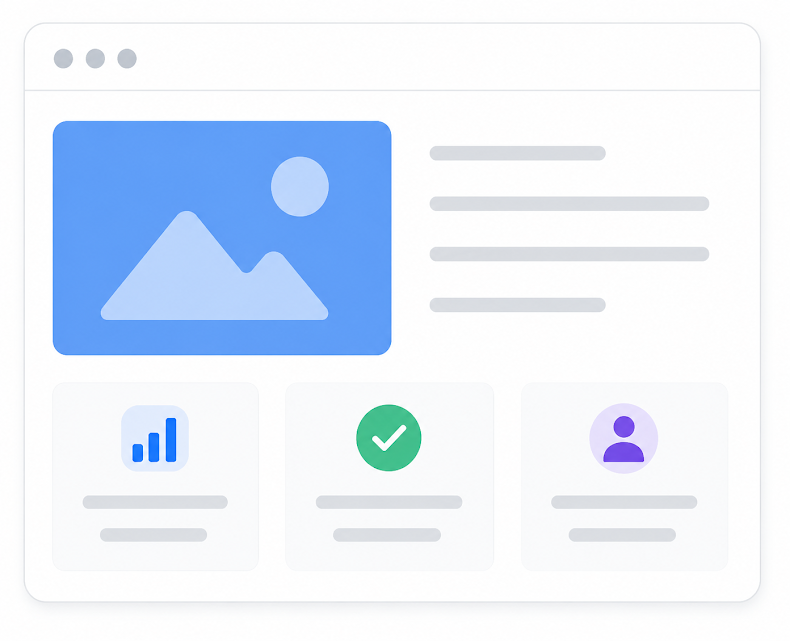
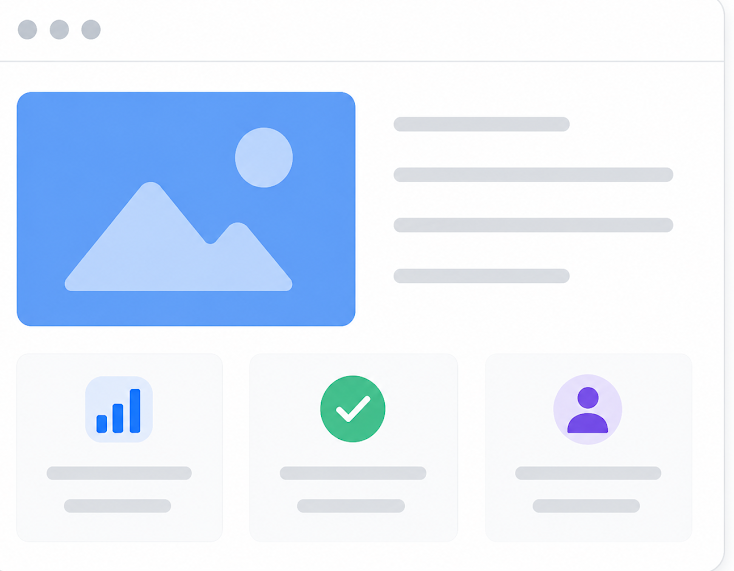
dsdsdsd

diff --git a/STACK_CSS/19_creando_landig_page/index.html b/STACK_CSS/19_creando_landig_page/index.html
@@ -9,7 +9,7 @@
 </head>
 <body>
     <nav class="navbar">
-        <div class="Titulo"><h1>Simple.</h1></div>
+            <img class="Logo" src="static/images/image.png" alt="Logo">
         <div class="nav-links">
             <a href="#">Inicio</a>
             <a href="#">Caracteristicas</a>
@@ -23,8 +23,9 @@
         <div class="presentacion">
             <h1>La solución que necesitas</h1>
             <p>Herramientas simples y efectivas para hacer tu día a día mas facil.</p>
-            <div class="links"><button class="boton comenzar">Comenzar gratis</button>
-            <a href="#">Ver más</a>
+            <div class="links">
+                <button class="boton">Comenzar gratis</button>
+                <a href="#">Ver más ➔</a>
             </div>
         </div>
         <div class="imagen">
@@ -32,26 +33,29 @@
         </div>
         </section>
         <section class="seccion2">
-            <div>
+            <div class="Caracteristicas">
                 <h1>Caracteristicas</h1>
             </div>
             <div class="cajas">
-                <div class="caja">
+                <div class="caja rayo">
+                    <img class="iconos" src="static/images/icono azul.png" alt="rayo">
                     <h2>Rápido</h2>
                     <p>Optimiza tu tiempo con procesos agiles.</p>
                 </div>
                 <div class="caja">
+                    <img class="iconos" src="static/images/seguridad.png" alt="escudo">
                     <h2>Seguro</h2>
                     <p>Tus datos siempre protegidos.</p>
                 </div>
-                <div class="caja">
+                <div class="caja separada">
+                    <img class="iconos" src="static/images/icono corazon.png" alt="corazon">
                     <h2>Facil de usar</h2>
                     <p>Interfaz intuitiva para todos.</p>
                 </div>
             </div>
         </section>
         <section class="seccion3">
-            <div>
+            <div class="empezar">
                 <h1>¿Listo para empezar?</h1>
                 <p>Unete hoy y mejora tu productividad.</p>
                 <button class="boton">

diff --git a/STACK_CSS/19_creando_landig_page/static/css/style.css b/STACK_CSS/19_creando_landig_page/static/css/style.css
@@ -16,6 +16,7 @@ body{
     align-items: center;
 }
 
+
 .nav-links {
     /* Flex */
     display: flex;
@@ -37,12 +38,18 @@ body{
     border-radius: 5px;
     font-size: 17px;
 }
+.boton a{
+    text-decoration: none;
+    color: white;
+}
 
 .seccion1{
     background-color: #F4F8FE;
     display: flex;
     justify-content: space-between;
     align-items: center;
+    padding: 40px;
+    gap: 40px;
 }
 
 .seccion1 h1{
@@ -52,9 +59,79 @@ body{
     font-size: 20px;
 }
 
+.imagen{
+    margin: 5px;
+}
+
+.imagen img{
+    border-radius: 40px;
+}
 .presentacion{
     margin-left: 30px;
     display: flex;
     flex-direction: column;
     gap: 30px;
 }
+.boton a{
+    color: white;
+    text-decoration: none;
+}
+.links a{
+    font-weight: bold;
+    color: #206DEB;
+    text-decoration: none;
+    margin-left: 10px;
+} 
+
+.seccion2{
+    display: flex;
+    justify-content: space-evenly;
+    align-items: center;
+    flex-direction: column;
+    margin: 30px;
+    gap: 40px;
+}
+
+
+.cajas {
+    display: flex;
+    justify-content: center; 
+    align-items: flex-start;
+    gap: 30px;
+    margin-right: 40px;
+}
+
+
+.caja {
+    display: flex;
+    flex-direction: column;  
+    align-items: center;     
+    text-align: center;      
+    max-width: 250px;        
+}
+
+
+.Caracteristicas h1 {
+    text-align: center;
+    margin-bottom: 40px;
+}
+.iconos{
+
+    height: 100px;
+    width: 100px;
+}
+
+.seccion3{
+    padding: 30px;
+}
+.empezar{
+    padding: 40px;
+    border-radius: 30px;
+    display: flex;
+    justify-content: center;
+    align-items: center;
+    gap: 30px;
+    flex-direction: column;
+    background-color: #F4F8FE;
+}
+
